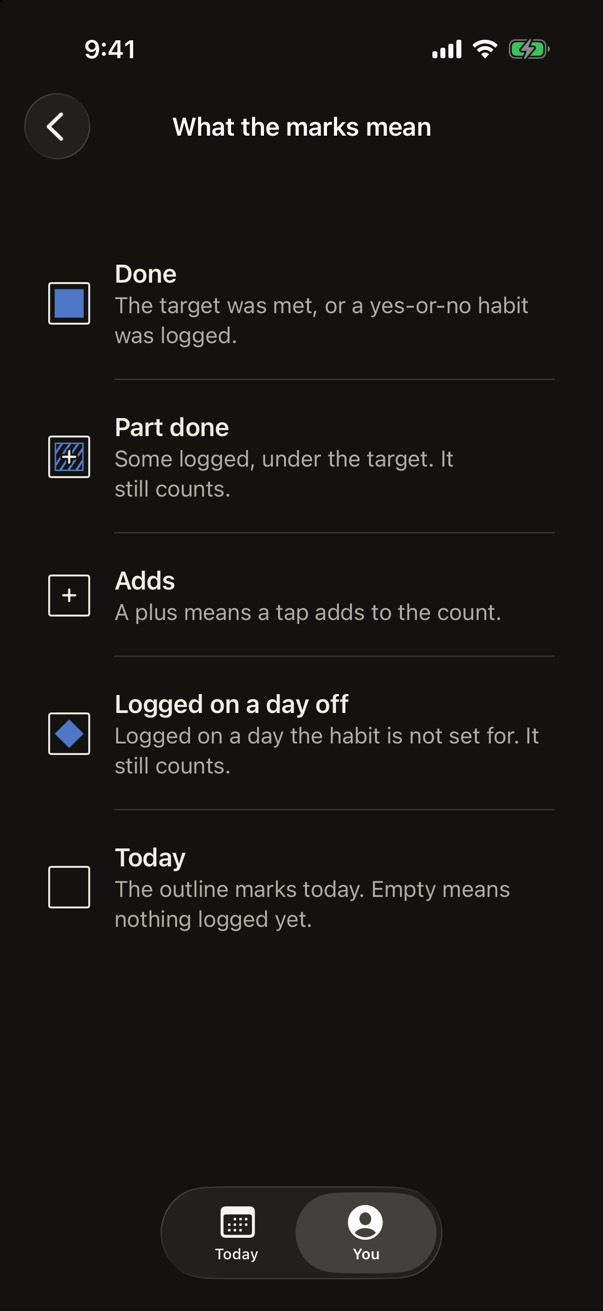
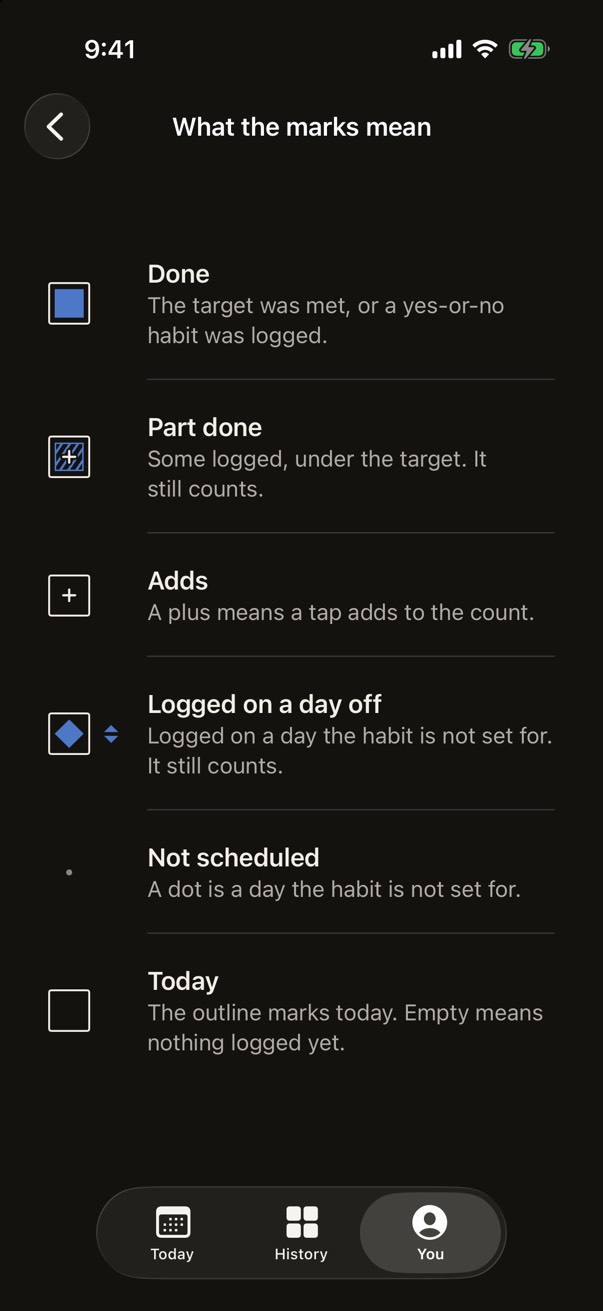
Show the small split diamond beside the large one in the marks key
- The marks board shows the small split diamond next to the large diamond, so a user who learned one
  recognises the other in Year and History month.
- The milestone 4 year-grid gate now includes today's cell holding the split diamond, with and without
  Increase Contrast, checked on 3x crops.
- The decision is recorded.

diff --git a/App/You/YouView.swift b/App/You/YouView.swift
@@ -229,7 +229,15 @@ struct MarksBoardView: View {
             ForEach(rows.indices, id: \.self) { index in
                 let row = rows[index]
                 HStack(spacing: 16) {
-                    MarkView(state: row.0, isToday: row.1, showsPlus: row.2)
+                    HStack(spacing: 6) {
+                        MarkView(state: row.0, isToday: row.1, showsPlus: row.2)
+                        // The year view and History month draw this mark smaller and split, so both are shown.
+                        // Every row keeps the column, so the labels stay aligned.
+                        Group {
+                            if row.0 == .loggedOffSchedule { SmallMarkView(state: row.0, size: 12) } else { Color.clear }
+                        }
+                        .frame(width: 16, height: 16)
+                    }
                     VStack(alignment: .leading, spacing: 2) {
                         Text(row.3).font(style.label(.body, weight: .semibold))
                         Text(row.4).font(style.label(.subheadline)).foregroundStyle(style.secondary)

diff --git a/HabitKit/Sources/HabitKit/Style/SmallMark.swift b/HabitKit/Sources/HabitKit/Style/SmallMark.swift
@@ -10,6 +10,8 @@ public enum SmallMark {
 
     /// The gap across a small diamond, as a share of the cell: 2.5 units in a 12-unit cell.
     /// Blurred, a whole diamond is too close to the done square (0.16). Split, it measures 0.38. See `docs/m4-blur-test.md`.
+    /// The gap inside a mark is close to the space between marks, so grouping rests on the shape.
+    /// Re-run the neighbour blur check if this or the mark inset changes.
     public static let diamondGap: CGFloat = 2.5 / 12
 
     /// A diamond at the full cell with a flat gap across its middle: two triangles, point up and point down.

diff --git a/docs/findings.md b/docs/findings.md
@@ -9,7 +9,7 @@ Status is one of: owed (with the milestone), gate (a test that must pass), guess
 | Milestone | Test | If it fails | Set by |
 |---|---|---|---|
 | 3 | The widget in clear and tinted modes, on the lightest wallpaper, keeps 3:1 for marks and 4.5:1 for text | Use the system's vibrant foreground. If it still fails, the widget ships without clear mode support | Low vision, 15 Nov. Seen in `m3-w-clear.png` |
-| 4 | History month strip and the Habit detail year grid at the largest text size, and under a blur test, in Pen and ink, Pencil and Watercolor. Includes "Not logged" against an empty today, with Show days not logged on (`notlogged-*.jpg`) | Month moves to milestone 13. History becomes Week only, with no control | Product owner and low vision, 15 Nov. Seen in `sheet-hist-month.png` |
+| 4 | History month strip and the Habit detail year grid at the largest text size, and under a blur test, in Pen and ink, Pencil and Watercolor. Includes "Not logged" against an empty today, with Show days not logged on (`notlogged-*.jpg`). Includes today's year cell holding the split diamond, with and without Increase Contrast: inside today's outline the gap is 0.63 pt, and 0.38 pt with Increase Contrast. Each check uses a 3x simulator crop, not the 1.5x screenshots. Re-run the neighbour blur check whenever the diamond gap or the mark inset changes | Month moves to milestone 13. History becomes Week only, with no control | Product owner and low vision, 15 Nov. Today's split diamond: colour vision and low vision, 16 Nov, `SmallMark.swift` today box. Seen in `sheet-hist-month.png` |
 | 3 | On a device with VoiceOver, the rotor offers Audio Graph on the Habit detail year grid | Wrap the grid in `.accessibilityElement(children: .contain)` and test again. If it still fails, put the descriptor on one element that sums up the year | Accessibility, 15 Nov. `App/History/HabitDetailView.swift`, YearGrid |
 | 3 | Bring back offers to pause the span the habit was archived, and a run test shows a habit archived and brought back with that pause keeps its run | Bring back stays without the offer, and the owner decides open decision 6 in `docs/spec.md` | Behavioural scientist, returning user, 15 Nov. `AppModel.bringBack`, `Runs.swift` |
 | 3 | One signed, sandboxed run of the Mac app with the owner's free account: export to a picked folder, import from it, and open the App Group store | Unsigned builds run without the sandbox, so no test has exercised it. If it fails, find the missing entitlement or profile and bring it to the owner | Release engineer, 15 Nov. `Config/Habit-macOS.entitlements` |

diff --git a/docs/decisions.md b/docs/decisions.md
@@ -214,3 +214,5 @@ One entry per decision that changed the brief. Each says what changed and why, i
 **The screenshot flags for Show runs and Show days not logged work only in debug builds.** Asked for by the product owner.
 
 **The Mac Settings window clears its Undo line when it closes,** so an Undo from an earlier visit never acts on a habit used since. Asked for by the Apple industrial designer.
+
+**The small "logged" diamond is split by a flat gap of 2.5 units in a 12-unit cell.** A whole diamond blurred too close to done (0.16 against a pass mark of 0.25). Split, it measures 0.38. Measured in `docs/m4-blur-test.md` on `docs/milestone-4-design`. The full-size diamond is unchanged. The marks board shows the small split diamond beside the large one, so the two read as one state. The senior designer and the colour vision and low vision reviews asked for that. Whether the large diamond takes the gap is decided in milestone 4.
